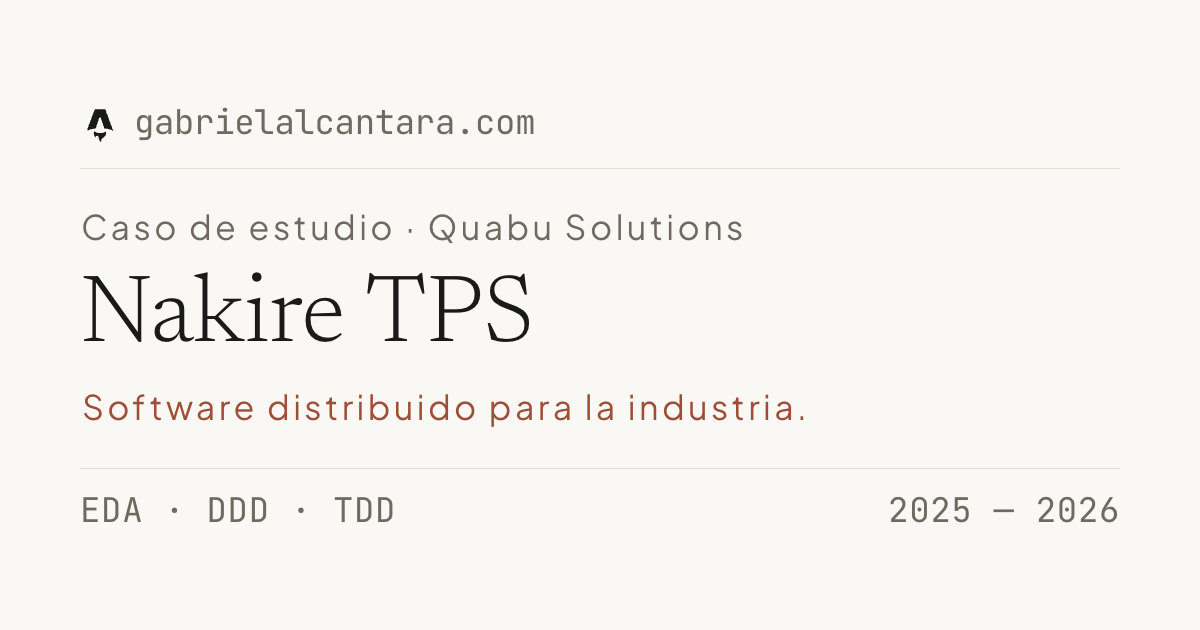
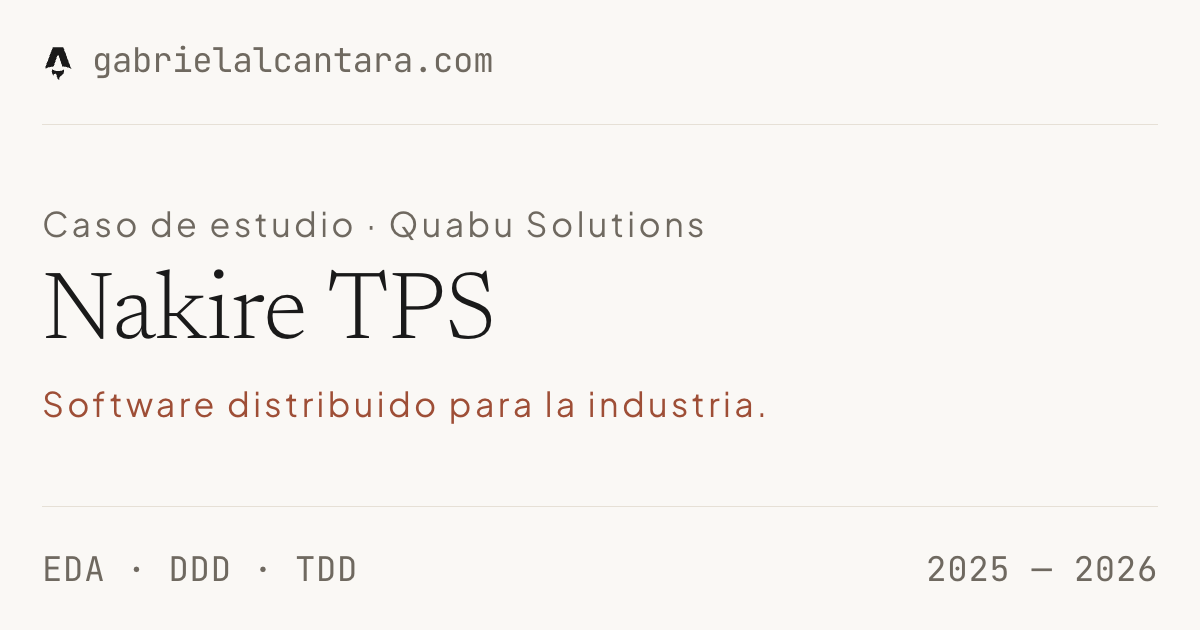
💄 style(og): pad the card to 42 and rebalance the centre
The frame is now the padding: 42px on all four sides, the hairlines 42px from
their blocks, and the blocks take the 127px that is left, so the three-line body
stays centred without a hand-tuned number. The foot row grows to 40px to mirror
the masthead, and the README records that the tighter frame sits inside the 5%
band some feeds crop.

diff --git a/docs/og-image/card.html b/docs/og-image/card.html
@@ -48,17 +48,19 @@
 	--slot-label: 34px;
 	--slot-title: 96px;
 
-	/* The masthead row is 40 so the mark fits inside it, not over the rule. */
+	/* The masthead row is 40 so the mark fits inside it, not over the rule. The
+	   foot row matches it so the two hairlines mirror about the canvas centre. */
 	--h-domain: 40px;
 	--h-eyebrow: 34px;
 	--h-title: 96px;
 	--h-sub: 34px;
-	--h-foot: 34px;
+	--h-foot: 40px;
 
-	/* Three blocks, three distances: 24px inside the lead group, 68px between
-	   blocks, 104px to the frame. Multiplying by ~2.8 at each step is what makes
-	   the groups read as groups and the frame read as a frame. */
-	--space: 68px;
+	/* The frame is the padding, and the padding is the module: 42px to the edge,
+	   42px from each block to its hairline, 24px inside the lead group. The
+	   blocks take what is left (127px), so the three-line body sits dead centre
+	   without a hand-tuned number. */
+	--space: 127px;
 	--space-tight: 24px;
 
 	--margin: calc(
@@ -72,22 +74,23 @@
 	--y-sub: calc(var(--y-title) + var(--h-title) + var(--space-tight));
 	--y-foot: calc(var(--y-sub) + var(--h-sub) + var(--space));
 
-	/* Each hairline sits the same 24px from the block it closes, so the body is
-	   framed by equal gaps instead of one tight rule and one loose one. */
-	--rule-gap-top: 24px;
-	--rule-gap-foot: 24px;
+	/* Each hairline sits the same 42px from the block it closes — the padding
+	   again — so the two rules mirror about the canvas centre. */
+	--rule-gap-top: 42px;
+	--rule-gap-foot: 42px;
 
 	/* The two halves of one row never touch. */
 	--foot-gap: 40px;
 
 	/*
 	 * The 5% safe zone some feeds crop to — 60 × 31.5px on this canvas, the same
-	 * guide the card editor draws. Everything lives inside it: the column starts
-	 * 20px in, and the first and last rows sit 104px from the edges. The gutter
-	 * stays a plain length because the exporter reads it with parseFloat.
+	 * guide the card editor draws. The frame is the padding (42px), which is
+	 * inside that band on purpose: a feed that crops 5% shaves 18px of the white
+	 * frame and reaches the ink at ~45px. The gutter stays a plain length
+	 * because the exporter reads it with parseFloat.
 	 */
-	--x: 80px;
-	--width: 1040px;
+	--x: 42px;
+	--width: 1116px;
 
 	--logo-size: 40px;
 	--logo-gap: 16px;
@@ -158,6 +161,9 @@ html, body { background: var(--paper); }
 	align-items: center;
 	gap: var(--logo-gap);
 	flex: none;
+	/* The A's base is its left-most ink: hanging the lockup 4px lines the mark
+	   up with the ink of the three text rows instead of sitting inside them. */
+	margin-left: -4px;
 }
 
 .mark {
@@ -196,7 +202,7 @@ html, body { background: var(--paper); }
 	display: inline-block;
 }
 
-.eyebrow span { transform: translate(1px, -2px); }
+.eyebrow span { transform: translate(0, -2px); }
 
 .lead {
 	top: var(--y-title);
@@ -235,7 +241,7 @@ html, body { background: var(--paper); }
 	 */
 .sub span {
 	display: inline-block;
-	transform: translate(2px, 0);
+	transform: translate(0, 0);
 }
 
 .foot {

diff --git a/docs/og-image/README.md b/docs/og-image/README.md
@@ -19,10 +19,11 @@ the standfirst.
 | 2 | eyebrow | sans | 34 px | 34 | tracked, in the faint ink: category, `Caso de estudio · Company`, place |
 | 3 | title | serif 300 | 96 px | 96 | the name or the headline |
 | 4 | sub | sans | 34 px | 34 | tracked, in the accent: role or standfirst |
-| 5 | foot | mono | 34 px | 34 | stack or tags on the left, years or date on the right |
+| 5 | foot | mono | 34 px | 40 | stack or tags on the left, years or date on the right |
 
 The masthead row is 40 px so the mark fits inside it instead of leaking over the
-hairline; the mark is 40 px, with a 16 px gap to the domain.
+hairline; the mark is 40 px, with a 16 px gap to the domain. The foot row is
+also 40 px, which is what lets the two hairlines mirror about the canvas.
 
 All five slots are filled on every card. There is no auto-fit and no second
 line — the copy is edited until it fits, which is why the articles carry their own
@@ -32,7 +33,7 @@ foot: at 34 px a fourth one runs into the margin.
 
 `export.mjs` enforces it. It measures the rendered card and refuses to write a
 PNG when a slot is empty, wraps to a second line, overflows its width, invades
-the 80 px gutter, drops below 34 px, or breaks the rhythm. The lead is the only
+the 42 px gutter, drops below 34 px, or breaks the rhythm. The lead is the only
 slot allowed past that line, and only by 2 px: a round or pointed capital has to
 hang for its curve to look flush (see below). It also refuses an image that is
 not exactly 1200×630 or heavier than `--max-kb`.
@@ -50,26 +51,26 @@ the card carries no badge and no second colour.
 The five heights and two gaps derive all five tops in `card.html`:
 
 ```
---space       68px   from the three-line block to the two label rows
+--space      127px   from the three-line block to the two label rows
 --space-tight 24px   inside the block: eyebrow, lead and standfirst
---margin     104px   above the first row and below the last, whatever is left
+--margin      42px   above the first row and below the last, whatever is left
 ```
 
-The six spaces are therefore `104 / 68 / 24 / 24 / 68 / 104`, identical on all
+The six spaces are therefore `42 / 127 / 24 / 24 / 127 / 42`, identical on all
 eight cards. `export.mjs` reads `--space`, `--space-tight` and `--margin` from the
 stylesheet, re-derives the six spaces from the slot boxes, and refuses the card
 when any of them is off by more than half a pixel. Change a gap or a height and
 the four tops follow; there are no hand-tuned numbers to forget.
 
-The two hairlines are attached to the outer rows, each 24 px from the block it
-closes, so the body sits between two equal gaps: 24 px to its rule above, 44 px
-from that rule, and the same mirrored below. That is what closes the three
-blocks without adding a line of text.
+The two hairlines are attached to the outer rows, each 42 px from the block it
+closes — the padding again: 42 px to its block, 85 px to the body, mirrored
+above and below, and 124 px from each edge of the canvas.
 
-The safe zone is the 5% inset some feeds crop to — 60 × 31.5 px on this canvas,
-the same guide the card editor draws. The column starts 20 px inside it (`--x:
-80px`) and the first and last rows sit 104 px from the edges, so no slot is ever
-close to the crop.
+The frame is the padding: 42 px on all four sides (`--x: 42px`). That is inside
+the 5% band some feeds crop to — 60 × 31.5 px on this canvas, the same guide the
+card editor draws — so a crop can shave 18 px of the white frame and reach the
+ink at about 45 px. The card takes that trade on purpose: the padding comes
+first, and the ink still starts 45 px from the edge.
 
 The rhythm is measured on the slot boxes, not on ink. A `Q` tail, an accent over
 a capital or the descender of a `g` dips into the space below without moving it;
